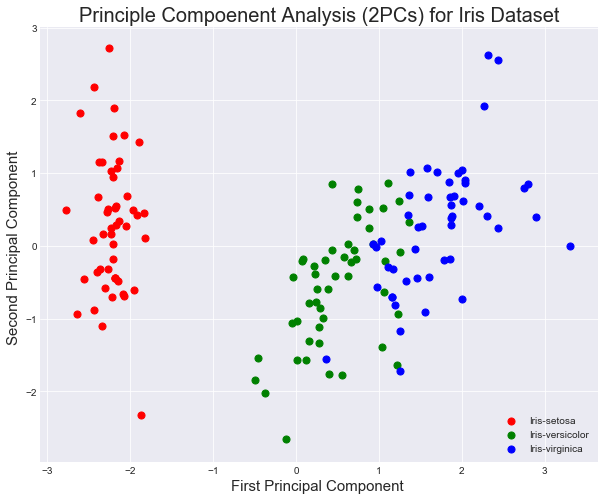
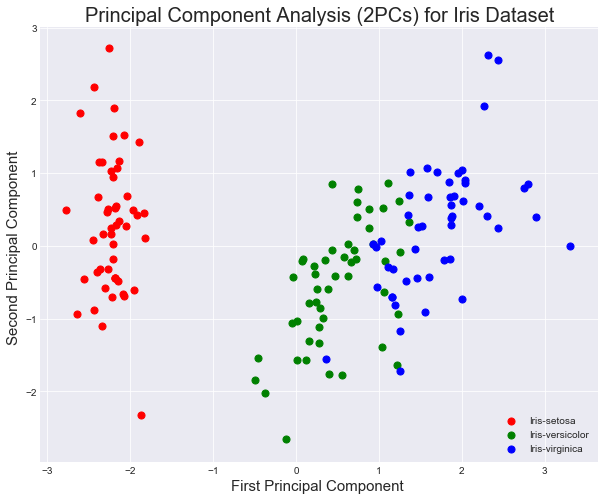
fix readme master

Changed region(s): [[0.119, 0.0, 0.9223, 0.06]]

diff --git a/README.md b/README.md
@@ -1,12 +1,14 @@
 
-# Pinciple Component Analysis in Scikit-learn - Lab
+# Pincipal Component Analysis in scikit-learn - Lab
 
 ## Introduction
 
-PCA algorithm is generally applied in dimension reduction contexts with an option to visualize a complex high dimensional dataset in 2D or 3D. PCA can also do an amazing job towards removing the computational cost of other machine learning algorithms by allowing them to train on a reduced set of features (principle components)
+PCA algorithm is generally applied in dimension reduction contexts with an option to visualize a complex high dimensional dataset in 2D or 3D. PCA can also do an amazing job towards removing the computational cost of other machine learning algorithms by allowing them to train on a reduced set of features (principal components)
 In this lesson, we shall look into implementing PCA with `scikit-learn` to the popular iris dataset, in an attempt to reduce the number of dimensions from 4 to 2 and see if the reduced set of dimensions would still preserve the variance of complete dataset. 
 
 ## Objectives
+
+You will be able to:
 - Perform PCA in Python and sci-kit learn using Iris dataset
 - Measure the impact of PCA on the accuracy of classification algorithms
 - Plot the decision boundary of different classification experiments to visually inspect their performance. 
@@ -110,7 +112,7 @@ iris.head()
 
 
 
-So here we see a set of four input features i.e. four dimensions. Our goal for this simple analysis is to reduce this number to 2 (or 3) so that we can visualize the resulting principle components using the standard plotting techniques that we have learned so far in the course. 
+So here we see a set of four input features i.e. four dimensions. Our goal for this simple analysis is to reduce this number to 2 (or 3) so that we can visualize the resulting principal components using the standard plotting techniques that we have learned so far in the course. 
 
 ## Standardize the Data
 
@@ -211,11 +213,11 @@ pd.DataFrame(data = X, columns = features).head()
 
 ## PCA Projection to 2D Space
 
-We shall now project the original data which is 4 dimensional into 2 dimensions. Remember,  there usually isn’t a particular meaning assigned to each principal component. The new components are just the two main dimensions of variance present in the data. To perform `PCA` with sk-learn, we need to import it first and create an instance of PCA while defining the number of principle components. 
+We shall now project the original data which is 4 dimensional into 2 dimensions. Remember,  there usually isn’t a particular meaning assigned to each principal component. The new components are just the two main dimensions of variance present in the data. To perform `PCA` with sk-learn, we need to import it first and create an instance of PCA while defining the number of principal components. 
 
 - Initialize an instance of PCA from scikit-learn with 2 components
 - Fit the data to the model
-- Extract the first 2 principle components from the trained model
+- Extract the first 2 principal components from the trained model
 
 
 ```python
@@ -227,11 +229,11 @@ principalComponents = pca.fit_transform(X)
 
 We can now save the results in a new dataframe and name the columns according the first/second component. 
 
-- Append the target (flower name) to the principle components in a pandas dataframe 
+- Append the target (flower name) to the principal components in a pandas dataframe 
 
 
 ```python
-# Create a new dataset fro principle components 
+# Create a new dataset fro principal components 
 df = pd.DataFrame(data = principalComponents
              , columns = ['PC1', 'PC2'])
 result_df = pd.concat([df, iris[['target']]], axis = 1)
@@ -303,20 +305,20 @@ result_df.head(5)
 
 Great, we now have a set of two dimensions, reduced from four against our target variable, the flower name. Let's now try to visualize this dataset and see if the different flower species remain separable. 
 
-## Visualize Principle Components 
+## Visualize Principal Components 
 
-Using the target data, we can visualize the principle components according to the class distribution. 
-- Create a scatter plot from principle components while color coding the examples
+Using the target data, we can visualize the principal components according to the class distribution. 
+- Create a scatter plot from principal components while color coding the examples
 
 
 ```python
-# Principle Componets scatter plot
+# Principal Componets scatter plot
 plt.style.use('seaborn-dark')
 fig = plt.figure(figsize = (10,8))
 ax = fig.add_subplot(1,1,1) 
 ax.set_xlabel('First Principal Component ', fontsize = 15)
 ax.set_ylabel('Second Principal Component ', fontsize = 15)
-ax.set_title('Principle Compoenent Analysis (2PCs) for Iris Dataset', fontsize = 20)
+ax.set_title('Principal Component Analysis (2PCs) for Iris Dataset', fontsize = 20)
 
 
 targets = ['Iris-setosa', 'Iris-versicolor', 'Iris-virginica']
@@ -339,9 +341,9 @@ ax.grid()
 
 > __The explained variance tells us how much information (variance) can be attributed to each of the principal components__
 
-We can see above that the three classes in the dataset remain well separable. iris-virginica and iris-versicolor could be better separated, but we have to remember that we just reduced the size of dimensions to half. the cost-performance trade-off is something that data scientists often have to come across. In order to get a better idea around how much variance of the original dataset is explained in principle components, we can use the attribute `explained_variance_ratio_`.
+We can see above that the three classes in the dataset remain well separable. iris-virginica and iris-versicolor could be better separated, but we have to remember that we just reduced the size of dimensions to half. the cost-performance trade-off is something that data scientists often have to come across. In order to get a better idea around how much variance of the original dataset is explained in principal components, we can use the attribute `explained_variance_ratio_`.
 
-- Check the explained variance of the two principle components using `explained_variance_ratio_`
+- Check the explained variance of the two principal components using `explained_variance_ratio_`
 
 
 ```python
@@ -359,7 +361,7 @@ First two PCs contain 95.80% of the information. The first PC contains 72.77% of
 
 ## Compare Performance of an Classifier with PCA
 
-So our principle components above explained 95% of variance in the data. How much would it effect the accuracy of a classifier? The best way to answer this is with a simple classifier like `KNeighborsClassifier`. We can try to classify this dataset in its original form vs. principle components computed above. 
+So our principal components above explained 95% of variance in the data. How much would it effect the accuracy of a classifier? The best way to answer this is with a simple classifier like `KNeighborsClassifier`. We can try to classify this dataset in its original form vs. principal components computed above. 
 
 - Run a `KNeighborsClassifier` to classify the Iris dataset 
 - Use a trai/test split of 80/20
@@ -390,13 +392,13 @@ print ("Time Taken:", end - start)
 ```
 
     Accuracy: 1.0
-    Time Taken: -0.0040903080080170184
+    Time Taken: -7.582898251712322e-05
 
 
 Great , so we see that we are able to classify the data with 100% accuracy in the given time. Remember the time taken may different randomly based on the load on your cpu and number of processes running on your PC. 
 
-Now let's repeat the above process for dataset made from principle components 
-- Run a `KNeighborsClassifier` to classify the Iris dataset with principle components
+Now let's repeat the above process for dataset made from principal components 
+- Run a `KNeighborsClassifier` to classify the Iris dataset with principal components
 - Use a trai/test split of 80/20
 - For reproducability of results, set random state =9 for the split
 - Time the process for splitting, training and making prediction
@@ -420,7 +422,7 @@ print ("Time Taken:", end - start)
 ```
 
     Accuracy: 0.9666666666666667
-    Time Taken: 0.0000236399916233495
+    Time Taken: -0.0027275790052954108
 
 
 So we see that going from 4 actual dimensions to two derived dimensions. We manage to get an accuracy of 96%. There is some loss but considering big data domain with data possibly having thousands of features, this trade-off is often accepted in order to simplify and speed up computation. The time taken to run the classifer is much less than what we saw with complete dataset. 
@@ -429,11 +431,11 @@ So we see that going from 4 actual dimensions to two derived dimensions. We mana
 
 visualizing decision boundary is good way to develop the intuition around a classifier's performance with 2/3 dimensional data. We can do this often to point out the examples that may not get classified correctly. It also helps us get an insight into how a certain algorithm draws these boundaries i.e. the learning process of an algorithm. 
 
-- Draw the decision boundary for the classification with principle components (Optional - with complete dataset)
+- Draw the decision boundary for the classification with principal components (Optional - with complete dataset)
 
 
 ```python
-# Plot decision boundary using principle components 
+# Plot decision boundary using principal components 
 def decision_boundary(pred_func):
     
     #Set the boundary
@@ -481,7 +483,7 @@ from sklearn.svm import SVC
 from sklearn.grid_search import GridSearchCV
 ```
 
-- Use 3 principle components instead of two and re-run your experiment to see the impact on the accuracy. 
+- Use 3 principal components instead of two and re-run your experiment to see the impact on the accuracy. 
 
 ## Summary 
 
